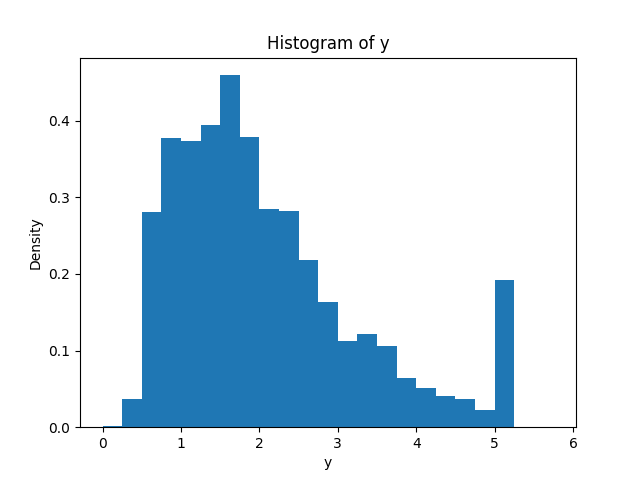
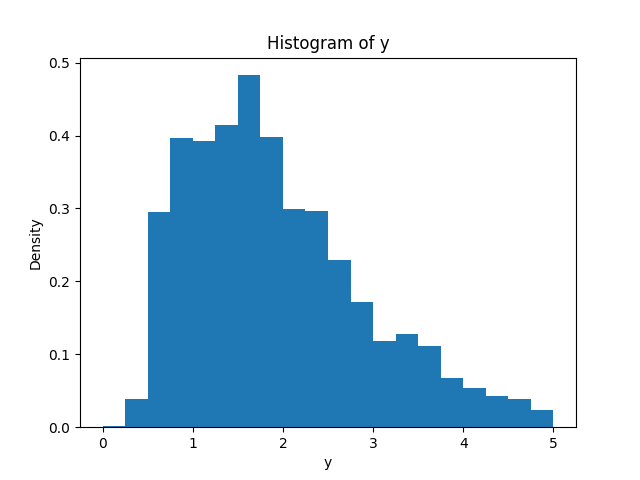
update

diff --git a/mlr.py b/mlr.py
@@ -12,6 +12,7 @@ import matplotlib.pyplot as plt
 import matplotlib.lines as mlines
 from sklearn.datasets import fetch_california_housing
 from sklearn.preprocessing import StandardScaler
+from sklearn.linear_model import Ridge
 import statsmodels.api as sm
 from statsmodels.stats.diagnostic import acorr_ljungbox
 from statsmodels.stats.stattools import omni_normtest, jarque_bera
@@ -182,12 +183,10 @@ class MLR:
         plt.savefig('mlr_pop_vs_sample.png')
 
     def compute_residuals_stats(self):
-        self.e_i = self.model_sample.resid
         self.e_i_mean = np.mean(self.e_i)
         self.e_i_sd = np.sqrt(np.var(self.e_i, ddof=2)) # this is rse (the residuals' standard error)
         self.e_i_x = np.linspace(self.e_i.min(), self.e_i.max(), 300)
         self.e_i_pdf = scipy.stats.norm.pdf(self.e_i_x, loc=self.e_i_mean, scale=self.e_i_sd)
-        self.y_hat_i = self.model_sample.fittedvalues
 
     def print_rss_relative_to_y_mean(self):
         print(f'RSS relative to y_meam: {self.e_i_sd:.2f} --- {self.y_sample.mean():.2f}')
@@ -200,12 +199,10 @@ class MLR:
         lb = acorr_ljungbox(self.e_i, lags=[1], return_df=True)
         self.lb_stat, self.lb_pvalue = lb['lb_stat'].values[0], lb['lb_pvalue'].values[0]
 
-        X = self.model_sample.model.exog
-        XtX_inv = np.linalg.inv(X.T @ X)
-        self.leverage = np.einsum('ij,jk,ik->i', X, XtX_inv, X)
-        resid = self.model_sample.resid
-        mse = np.mean(resid**2)
-        self.studentized_resid = resid / np.sqrt(mse * (1 - self.leverage))
+        XtX_inv = np.linalg.inv(self.X.T @ self.X)
+        self.leverage = np.einsum('ij,jk,ik->i', self.X, XtX_inv, self.X)
+        mse = np.mean(self.e_i**2)
+        self.studentized_resid = self.e_i / np.sqrt(mse * (1 - self.leverage))
 
     def plot_diagnostics(self, filename):
         fig, ax = plt.subplots(1, 3, figsize=(15, 4))
@@ -220,7 +217,7 @@ class MLR:
         ax[0].set_xlabel(r'$e_i$')
         ax[0].set_ylabel('Density')
         ax[1].set_title(r'Fitted vals. vs. studentized $e_i$')
-        ax[1].scatter(self.y_hat_i, self.studentized_resid)
+        ax[1].scatter(self.y_hat, self.studentized_resid)
         ax[1].axhline(y=0, color='black', linestyle='--')
         ax[1].set_xlabel('Fitted vals.')
         ax[1].set_ylabel(r'Studentized $e_i$')
@@ -261,7 +258,9 @@ class MLR:
         print(f'beta_hat = {beta_hat[0]:.4f}, {beta_hat[1]:.4f}, {beta_hat[2]:.4f}')
         print(f'var(beta_hat) = {var_beta_hat[0,0]:.4f}, {var_beta_hat[1,1]:.4f}, {var_beta_hat[2,2]:.4f}')
 
-    def diagnose_collinearity(self, X, center=True):
+    def diagnose_collinearity(self, center=False):
+
+        X = self.X
 
         # center X
         if center:
@@ -356,40 +355,55 @@ class MLR:
         ax.legend(handles, labels)
         plt.savefig('mlr_2d_example_collinearity_independent.png')
 
-    def y_distribution(self, y, bins, filename):
+    def y_distribution(self, bins, filename):
         
-        hist, bin_edges = np.histogram(y, bins=bins)
+        hist, bin_edges = np.histogram(self.y, bins=bins)
         for i, h in enumerate(hist):
-            print(f'{bin_edges[i]:.3f} - {bin_edges[i+1]:.3f}: {h}')
+            print(f'[{bin_edges[i]:.3f} - {bin_edges[i+1]:.3f}): {h}')
 
 
         fig, ax = plt.subplots()
-        ax.hist(y, bins=bins, density=True)
+        ax.hist(self.y, bins=bins, density=True)
         ax.set_title('Histogram of y')
         ax.set_xlabel('y')
         ax.set_ylabel('Density')
         plt.savefig(filename)
+
+    def fit_ridge_regression(self):
+
+        scaler = StandardScaler()
+        self.X_centered = scaler.fit_transform(self.X)
+
+        ridge = Ridge(alpha=1.0) # regularization strength
+        ridge.fit(self.X_centered, self.y)
+
+        self.y_hat = ridge.predict(self.X_centered)
+        self.e_i = self.y - self.y_hat
 
 
     def california_housing(self):
 
         ch = fetch_california_housing()
 
-        X = pd.DataFrame(ch.data, columns = ch.feature_names)
-        X = sm.add_constant(X)
-        y = pd.DataFrame(ch.target, columns=['med_house_val_100k'])
-        self.y_distribution(y, np.arange(0, 6.0, 0.25), 'mlr_y_distribution_california_housing.png')
+        self.X = pd.DataFrame(ch.data, columns = ch.feature_names)
+        self.X = sm.add_constant(self.X)
+        self.y = pd.DataFrame(ch.target, columns=['med_house_val_100k'])
 
-        exit()
+        # remove censored data y>=5
+        idx = self.y['med_house_val_100k'] < 5
+        self.y = self.y.loc[idx, :]['med_house_val_100k']
+        self.X = self.X.loc[idx, :]
 
-        self.diagnose_collinearity(X=np.array(X), center=False)
+        self.y_distribution(bins=np.arange(0, 5.25, 0.25), filename='mlr_y_distribution_california_housing.png')
 
-        #remove censored data y>=5
-        self.model_sample = sm.OLS(y,X)
+        self.diagnose_collinearity(center=False)
+
+        self.model_sample = sm.OLS(self.y, self.X)
         self.model_sample = self.model_sample.fit()
-        self.y_hat = self.model_sample.predict(X)
+        self.y_hat = self.model_sample.predict(self.X)
         print(self.model_sample.summary())
 
+        self.fit_ridge_regression()
         self.compute_residuals_stats()
         self.compute_diagnostics()
         self.plot_y_obs_vs_y_pred('mlr_y_obs_y_pred_california_housing.png')

diff --git a/README.md b/README.md
@@ -12,9 +12,9 @@ Based largely on
 
 ### Model and intuition
 
-Model: $y = X\beta + \epsilon$, with $\epsilon \sim N(0, \sigma^2)$, $\beta= \langle\beta_0, \beta_1\rangle$ and $X$ a column vector (we prepend a column of ones on the left for the intercept). The deterministic part is $X\beta$, which is a model for $E(y|X)$. $\epsilon$ is the random deviation of each $y_i$ from $E(y|X)$, and is what makes $y$ a random variable.
+The model in OLS is $y = X\beta + \epsilon$, with $\epsilon \sim N(0, \sigma^2)$, $\beta= \langle\beta_0, \beta_1\rangle$ and $X$ a **fixed** (non-random) column vector (we prepend a column of ones on the left for the intercept). The deterministic part is $X\beta$, which is a model for $E(y|X)$. $\epsilon$ is the random deviation of each $y_i$ from $E(y|X)$, and is what makes $y$ a random variable.
 
-The modelling task in OLS is to estimate $\hat{\beta}$ and its variability. That gives us a function to estimate of $E(y|X)$ and a way to compute confidence intervals. $X$ is a matrix with $p+1$ columns (+1 for the intercept) and $n$ rows, where $p$ is the number of regressors and $n$ is the number of observations. In OLS, $p=1$. 
+The modelling task in OLS is to estimate $\hat{\beta}$ and its variability. That gives us a function to estimate of $E(y|X)$ and a way to compute confidence intervals. $X$ is a matrix with $p+1$ columns (+1 for the intercept) and $n$ rows, where $p$ is the number of regressors and $n$ is the number of observations. In OLS, $p=1$.
 
 Geometrically, predicting $E(y|X)$ corresponds to projecting $y$ onto the column space of $X$, that is, finding a linear combination $\hat{\beta}$ of the columns of $X$ that minimizes the residuals vector $e = y - \hat{y}$, where $\hat{y} = X\hat{\beta}$. Since $e$ and $X$'s column space are orthogonal, we can say $X^T(y - X\hat{\beta}) = 0$. Solving for $\hat{\beta}$ yields:
 
@@ -83,6 +83,8 @@ Before interpreting $\hat{\beta}_0$ and $\hat{\beta}_1$ and their statistical an
 ### Model and intuition
 
 Model is the same as above: $y = X\beta + \epsilon$, with $\epsilon \sim N(0, \sigma)$, but now $\beta$ is a vector of shape ($p$+1, 1), with $p$ = number of regressors (+1 for the intercept), and $X$ is no longer a column vector but a matrix of shape ($n$, $p+1$), i.e, $n$ observations and $p$ factors (again, +1 for the intercept, for which we prepend a column of ones to $X$).
+
+A critical point here is that $n > p$, i.e., we have many more observations that features. If we view each feature of $X$ as an $n$-dimensional vector in $n$-dimensional space ('observation space'), what we have if $n > p$ is $p$ vectors spanning a _subspace_ of that space. In contrast, if $n<p$ then the $p$ vectors span the entire $n$-dimensional space (not just a subspace of it), and any vector (feature) beyond the $n$-th vector will unavoidably be a linear combination of all previous vectors. This means that $X$ is not _full rank_, $X^TX$ is _singular_ and the modelling problem is unsolvable because there are _infinitely_ many different $\beta$ that give the same fitted values.
 
 Having multiple regressors opens up a host of possibilities, good and bad. Good because the world is multidimensional and including multiple regressors accounts for this; bad becasue regressors could be non-independent, we could be missing the right regressors, and we are forced to select a model, not to mention the problems with wide $X$ matrices, i.e., many features + few observations, and 'the curse of dimensionality'. More on all of these below.
 
